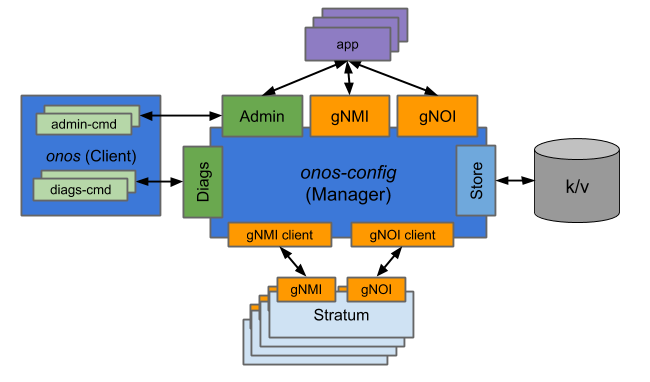
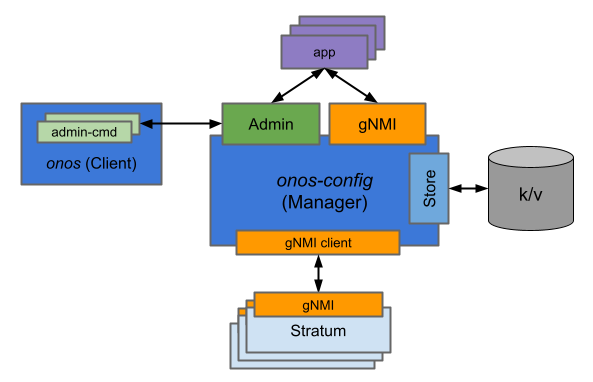
Updated the top-level docs (#1554)

Changed region(s): [[0.0304, 0.0, 0.9713, 0.9791], [0.4553, 0.4319, 0.6374, 0.5471]]

diff --git a/docs/README.md b/docs/README.md
@@ -1,21 +1,21 @@
 # ONOS configuration overview
 
 ## Design Objectives
-gNMI provides transactionality with respect to a single device; all configuration operations specified as part of a 
+gNMI provides transactionality with respect to a single target; all configuration operations specified as part of a 
 single batch are all applied or none of them are. The core capability of the configuration platform should build on 
 this gNMI feature to:
 
-* Provide ability to apply a batch of operations (via NB gNMI API) targeted at multiple devices 
-  to be performed as a transaction; either all changes are applied to all devices or none of 
-  the changes are applied to any of the devices.
-* Track configuration change transactions applied to a set of devices over time and allow 
+* Provide ability to apply a batch of operations (via NB gNMI API) targeted at multiple targets 
+  to be performed as a transaction; either all changes are applied to all targets or none of 
+  the changes are applied to any of the targets.
+* Track configuration change transactions applied to a set of targets over time and allow 
   rollback (via NB admin API) to previous configuration checkpoints demarcated by the transactions.
 
 The above features are the principal objectives for the configuration management platform. 
 Second order objectives are as follows:
 
 * Support high-availability and distributed operation, including rolling upgrades
-* Support networks comprising of ~50 devices, ~5000 ports and rate of ~10K incremental 
+* Support networks consisting of ~50 devices (configuration targets), ~5000 ports and rate of ~10K incremental 
   configuration transactions per day
 
 ### Additional Features (to be integrated with the above)
@@ -23,7 +23,7 @@ The following set of features will be required to support the real-world use-cas
 but may not necessarily be part of the code configuration subsystem and instead can be 
 provided as additional layers:
 
-* Ability to preload initial configuration about devices that have not yet been discovered - 
+* Ability to preload initial configuration about targets that have not yet been discovered - 
   or even deployed
 * Dry run capability - validate configuration with respect to model, but also with respect 
   to existing business constraints or policies
@@ -35,22 +35,23 @@ provided as additional layers:
 * Principal northbound API for the subsystem will be gNMI.
    * These interfaces are already accepted standards and are well-defined, low-profile interfaces 
      with support for transaction semantics.
-   * YANG models that will be exposed as part of the NB API are yet to be determined (or defined).
+   * YANG models that will be exposed as part of the NB API are determined by the set of 
+     configuration model plugins configured as part of `onos-config` deployment.
 * Enhanced northbound API will be a gRPC service providing access to administrative functionality.
-   * Applications can navigate the change-log and roll-back various changes as they were 
+   * Applications can navigate the transaction log and roll-back various changes as they were 
      previously submitted via gNMI
-* Southbound API for the subsystem will be gNMI and gNOI.
+* Southbound API for the subsystem will be gNMI.
    * This will allow direct use with Stratum-compliant switches without requiring an adaptation layer.
-   * Adapters can be created for devices that do not directly support gNMI/gNOI interfaces. 
-     Such adapters can be deployed either as proxy agents or potentially can be hosted on the devices themselves.
-* Diagnostic gRPC service will allow for inspection of internal state using various remote tools.
-   * This interface is not subject to backward compatibility constraints.  
+   * Adapters can be created for devices - or configurable targets in general - that do not directly 
+     support gNMI interfaces. Such adapters can be deployed either as proxy agents or potentially 
+     can be hosted on the devices themselves.
+* Administrative gRPC service will allow for roll-back, and interacting with `onos-config` internal 
+  state using various remote tools.
 * The subsystem will be designed as a separate entity to allow its use with the existing 
   ONOS 2.0 architecture and to fit with the NG ONOS architecture.
 
 ## High-Level Design
 ![design](images/design.png)
-
 
 ## Additional Documentation
 * [How to contribute](https://docs.onosproject.org/developers/contributing/) to onos-config project

diff --git a/README.md b/README.md
@@ -7,6 +7,7 @@
 
 ONOS Configuration subsystem built using the µONOS architecture
 
-You can find all the documentation under [docs](docs).  
-A good place to start is the [README](docs/README.md).  
-The documentation is also published on it's own [website](https://docs.onosproject.org).
+You can find all the documentation under [docs](docs) directory. 
+A good place to start is the [README](docs/README.md). 
+
+Overall µONOS documentation is also published on its own [website](https://docs.onosproject.org).
